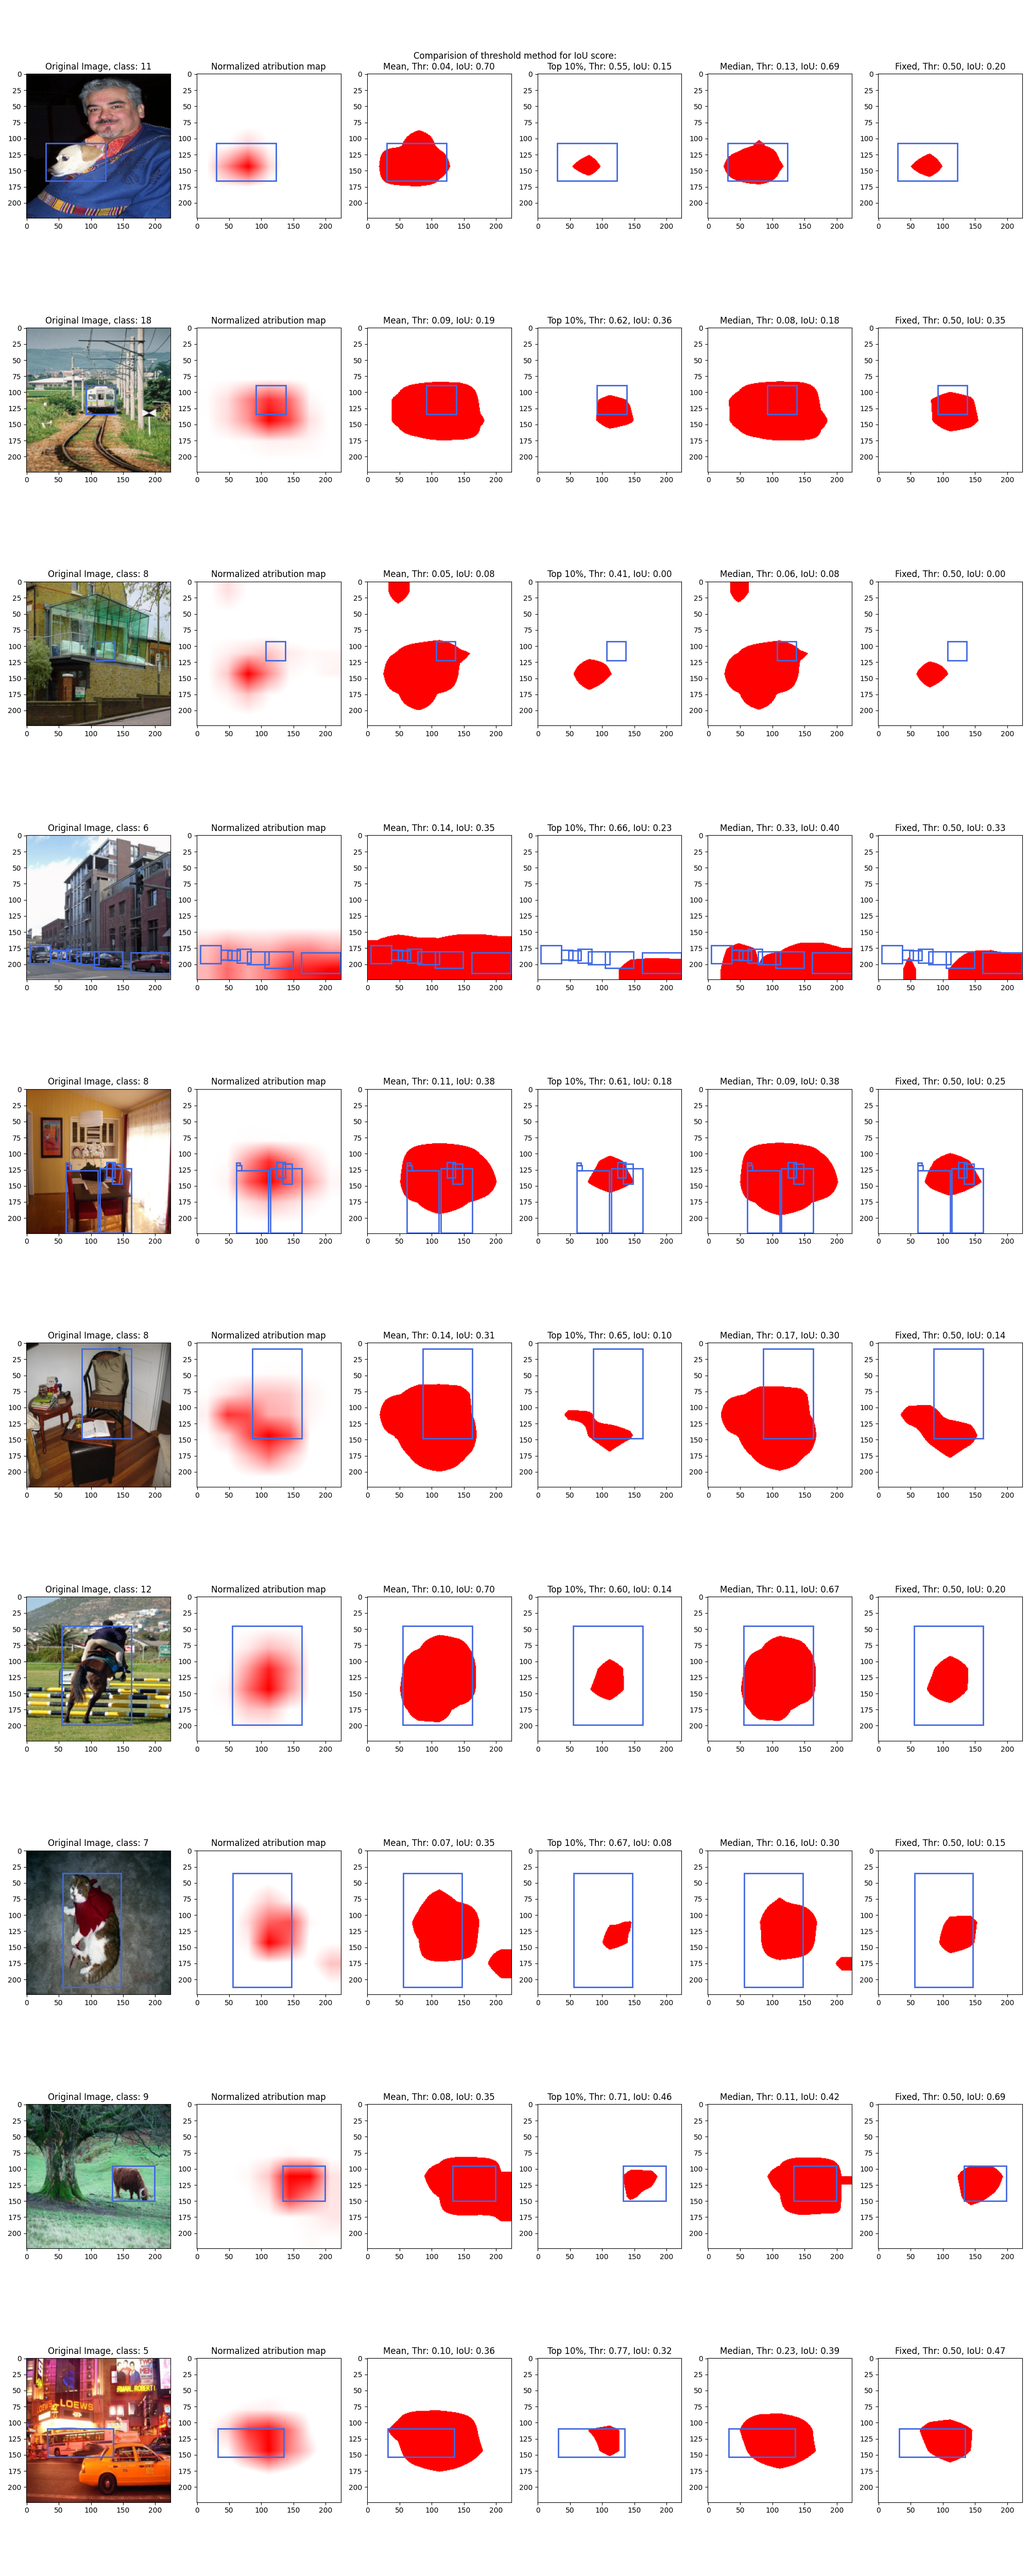
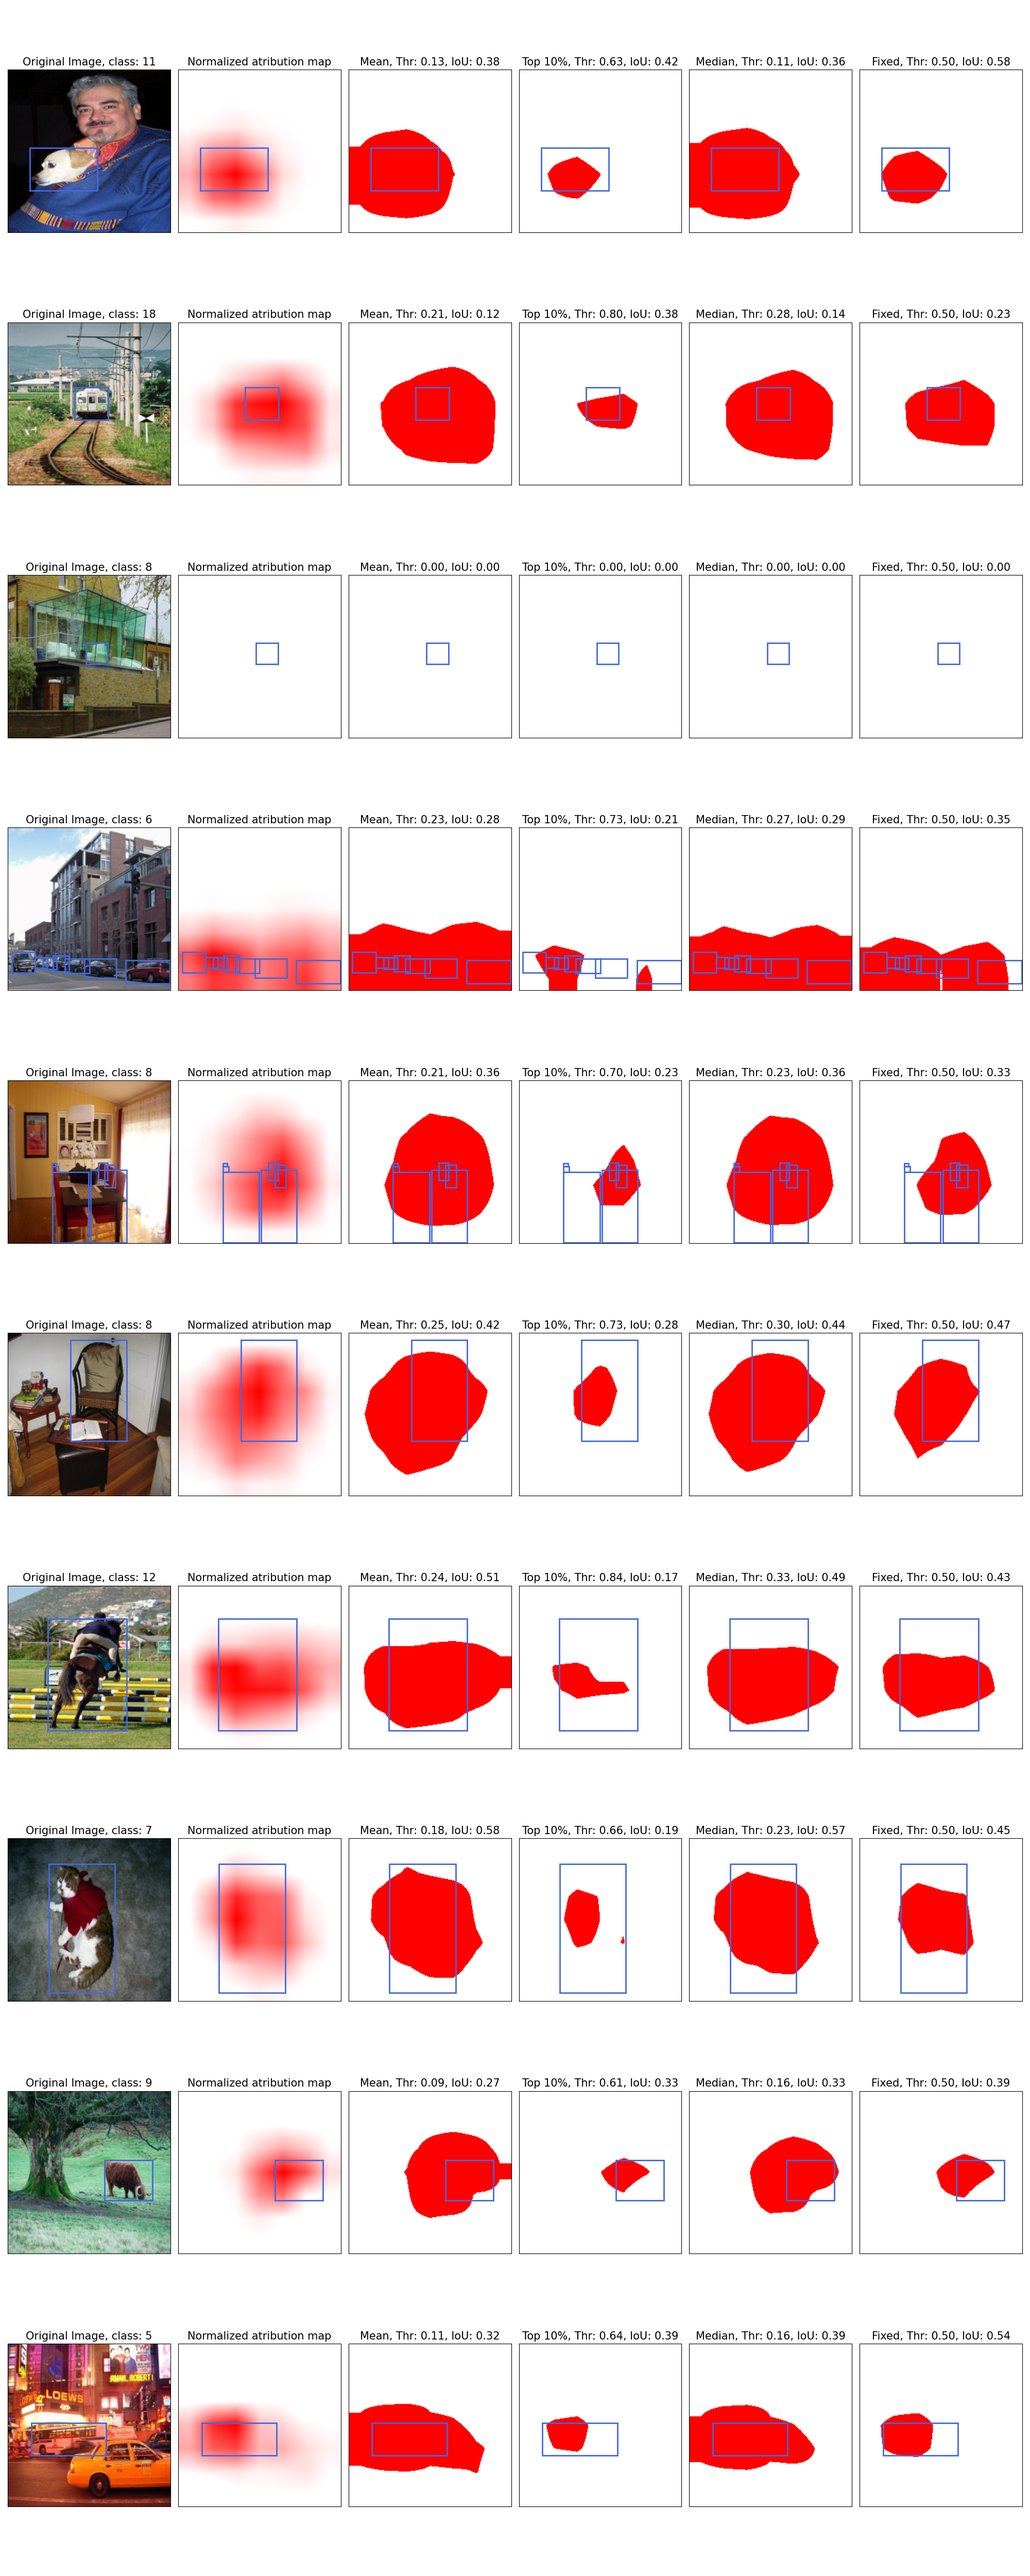
Fix dataset and improve figure

diff --git a/datasets/__init__.py b/datasets/__init__.py
@@ -1,0 +1,130 @@
+import numpy as np
+import os
+import torch
+import utils
+from torchvision import tv_tensors
+import numpy as np
+
+
+class VOCDetectParsed(torch.utils.data.Dataset):
+    def __init__(
+        self,
+        root,
+        image_set,
+        transform=None,
+        annotated_fraction=1.0,
+        bbs_transform=None,
+        plot=False,
+    ):
+        super().__init__()
+        data_dict = torch.load(os.path.join(root, image_set + ".pt"))
+        self.data = data_dict["data"]
+        self.labels = data_dict["labels"]
+        self.bbs = data_dict["bbs"]
+        self.bbs_transform = bbs_transform
+        self.plot = plot
+        assert len(self.data) == len(self.labels)
+        assert len(self.data) == len(self.bbs)
+        self.annotated_fraction = annotated_fraction
+
+        if self.annotated_fraction < 1.0:
+            annotated_indices = np.random.choice(
+                len(self.bbs),
+                size=int(self.annotated_fraction * len(self.bbs)),
+                replace=False,
+            )
+            for bb_idx in range(len(self.bbs)):
+                if bb_idx not in annotated_indices:
+                    self.bbs[bb_idx] = None
+        self.transform = transform
+
+    def __getitem__(self, idx):
+        if self.bbs_transform is not None:
+            bbs = self.bbs[idx]
+            none_flag = False
+            if bbs is None:
+                none_flag = True
+                bbs = [[0, 0, 0, 0, 0]]
+            bbs = np.asarray(bbs)
+            img = self.data[idx]
+            boxes = tv_tensors.BoundingBoxes(
+                bbs[:, 1:],
+                format="XYXY",
+                canvas_size=img.shape[-2:],
+            )
+            out_img, out_boxes = self.bbs_transform(img, boxes)
+            bbs = np.hstack((bbs[:, :1], np.asarray(out_boxes)))
+            if self.plot:
+                return (
+                    out_img,
+                    self.labels[idx],
+                    bbs,
+                    self.data[idx],
+                    self.labels[idx],
+                    self.bbs[idx],
+                )
+            if none_flag:
+                bbs = None
+            elif self.transform is not None:
+                return self.transform(out_img), self.labels[idx], bbs
+            else:
+                return out_img, self.labels[idx], bbs
+        if self.transform is not None:
+            return self.transform(self.data[idx]), self.labels[idx], self.bbs[idx]
+        return self.data[idx], self.labels[idx], self.bbs[idx]
+
+    def load_data(self, idx, pred_class):
+        img, labels, bbs = self.__getitem__(idx)
+        label = labels[pred_class]
+        bb = utils.filter_bbs(bbs, pred_class)
+        return img, label, bb
+
+    def __len__(self):
+        return len(self.data)
+
+    @staticmethod
+    def collate_fn(batch):
+        data = torch.stack([item[0] for item in batch])
+        labels = torch.stack([item[1] for item in batch])
+        bbs = [item[2] for item in batch]
+        if len(batch[0]) == 6:
+            og_data = torch.stack([item[3] for item in batch])
+            og_labels = torch.stack([item[4] for item in batch])
+            og_bbs = [item[5] for item in batch]
+            return data, labels, bbs, og_data, og_labels, og_bbs
+        return data, labels, bbs
+
+
+class SegmentDataset(torch.utils.data.Dataset):
+    def __init__(self, root, transform=None):
+        self.all_data = torch.load(root)
+        self.data = self.all_data["data"]
+        self.labels = self.all_data["labels"]
+        self.masks = self.all_data["mask"]
+        self.bbs = self.all_data["bbs"]
+        self.transform = transform
+
+    def __len__(self):
+        return len(self.data)
+
+    def __getitem__(self, index):
+        sample = {
+            "data": self.transform(self.data[index]),  # transform data
+            "label": self.labels[index],
+            "mask": self.masks[index],
+            "bbs": self.bbs[index],
+        }
+        return sample
+
+    @staticmethod
+    def collate_fn(batch):
+        datas = [item["data"] for item in batch]
+        labels = [item["label"] for item in batch]
+        masks = [item["mask"] for item in batch]
+        bbs = [item["bbs"] for item in batch]
+
+        batched_datas = torch.stack(datas)
+        batched_labels = torch.stack(labels)
+        batched_masks = torch.stack(masks)
+
+        return [batched_datas, batched_labels, batched_masks, bbs]

diff --git a/metrics.py b/metrics.py
@@ -177,7 +177,7 @@ class BoundingBoxIoUMultiple(EnergyPointingGameBase):
         # If og image is given plot it in first subplot
         if image is not None:
             self.axs[self.j][0].imshow(torch.movedim(image[:3, :, :], 0, -1).cpu())
-            self.axs[self.j][0].set_title(f"Original Image, class: {pred}")
+            self.axs[self.j][0].set_title(f"Original Image, class: {pred}", fontsize=15)
 
         # Plot attirubtions in first or second plot, depending on if an
         # image is given
@@ -187,7 +187,7 @@ class BoundingBoxIoUMultiple(EnergyPointingGameBase):
             binarized_attributions.cpu(),
             cmap=dark_red_cmap,
         )
-        self.axs[self.j][i].set_title("Normalized atribution map")
+        self.axs[self.j][i].set_title("Normalized atribution map", fontsize=15)
 
         # histogram, bin_edges = np.histogram(binarized_attributions.cpu())
 
@@ -234,7 +234,7 @@ class BoundingBoxIoUMultiple(EnergyPointingGameBase):
                 cmap=dark_red_cmap,
             )
             self.axs[self.j][i + 1].set_title(
-                f"{method}, Thr: {iou_threshold:.2f}, IoU: {iou:.2f}"
+                f"{method}, Thr: {iou_threshold:.2f}, IoU: {iou:.2f}", fontsize=15
             )
 
         # Add boundingbox to all subplots
@@ -257,8 +257,11 @@ class BoundingBoxIoUMultiple(EnergyPointingGameBase):
         # If amount neede reached stop visualizing
         if self.j >= self.amount_img:
             # Save figure
+            for _ax in self.axs:
+                for ax in _ax:
+                    ax.axes.get_xaxis().set_ticks([])
+                    ax.axes.get_yaxis().set_ticks([])
             self.fig.tight_layout()
-            self.fig.suptitle("Comparision of threshold method for IoU score:")
             plt.savefig("./images/methods_comparions.png")
             self.visualize_flag = False
 

diff --git a/eval.py b/eval.py
@@ -74,7 +74,6 @@ def eval_model(
 
     # Initialize total loss
     total_loss = 0
-
     # for every image, evaluate
     labels = []
     for batch_idx, data in enumerate(tqdm(loader)):
@@ -212,8 +211,8 @@ def evaluation_function(
     vis_iou_thr_methods: bool = False,
     return_per_class: bool = False,
     baseline: bool = False,
-    save_npz_path: Optional[str] = None
-    ) -> dict:
+    save_npz_path: Optional[str] = None,
+) -> dict:
     """
     Evaluate a model's performance on a specific dataset split and return the metrics.
 
@@ -343,7 +342,7 @@ def evaluation_function(
             collate_fn=datasets.SegmentDataset.collate_fn,
         )
         num_batches = len(data) / eval_batch_size
-        
+
     elif split == "worst":
         print(root)
         data = datasets.VOCDetectParsed(
@@ -357,7 +356,7 @@ def evaluation_function(
             collate_fn=datasets.VOCDetectParsed.collate_fn,
         )
         num_batches = len(data) / eval_batch_size
-        
+
     elif split == "real_worst":
         print(root)
         data = datasets.VOCDetectParsed(
@@ -422,7 +421,6 @@ def evaluation_function(
 
         # If baseline is true, add baseline to the file name
         elif baseline and not pareto:
-
             # In metrics rename F-Score to f_score, BB-Loc to bb_score, BB-IoU to iou_score, BB-IoU-Adapt to adapt_iou_score
             metric_vals["f_score"] = metric_vals.pop("F-Score")
             metric_vals["bb_score"] = metric_vals.pop("BB-Loc")

diff --git a/README.md b/README.md
@@ -152,7 +152,7 @@ python train.py --model_backbone bcos --dataset VOC2007 --learning_rate 1e-4 --t
 For example, to optimize B-cos attributions using the Energy loss at the Input layer, use:
 
 ```bash
-python eval.py --model_path BASE/VOC2007/bcos_standard_attrNone_loclossNone_origNone_resnet50_lr0.001_sll1.0_layerInput/model_checkpoint_final_300.pt --log_path ./base_logs/VOC2007/EVAL/ --dataset VOC2007 --fix_layer Input --vis_iou_thr_methods
+python eval.py --model_path BASE/VOC2007/bcos_standard_attrNone_loclossNone_origNone_resnet50_lr0.0001_sll1.0_layerInput/model_checkpoint_final_300.pt --log_path ./base_logs/VOC2007/EVAL/ --dataset VOC2007 --fix_layer Input --vis_iou_thr_methods
 ```
 
 ---
